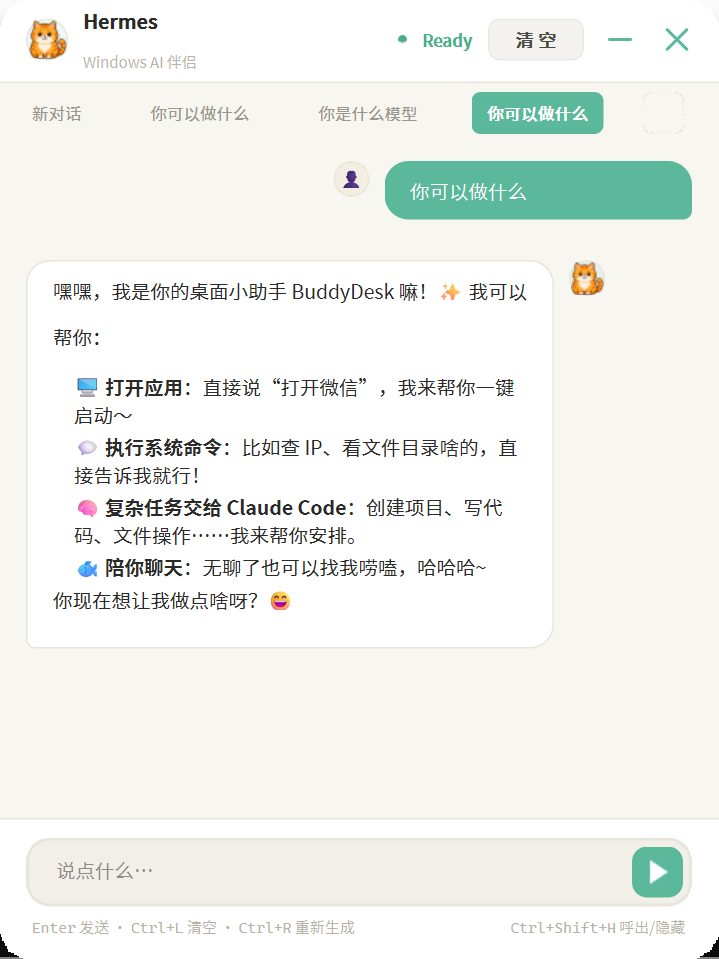
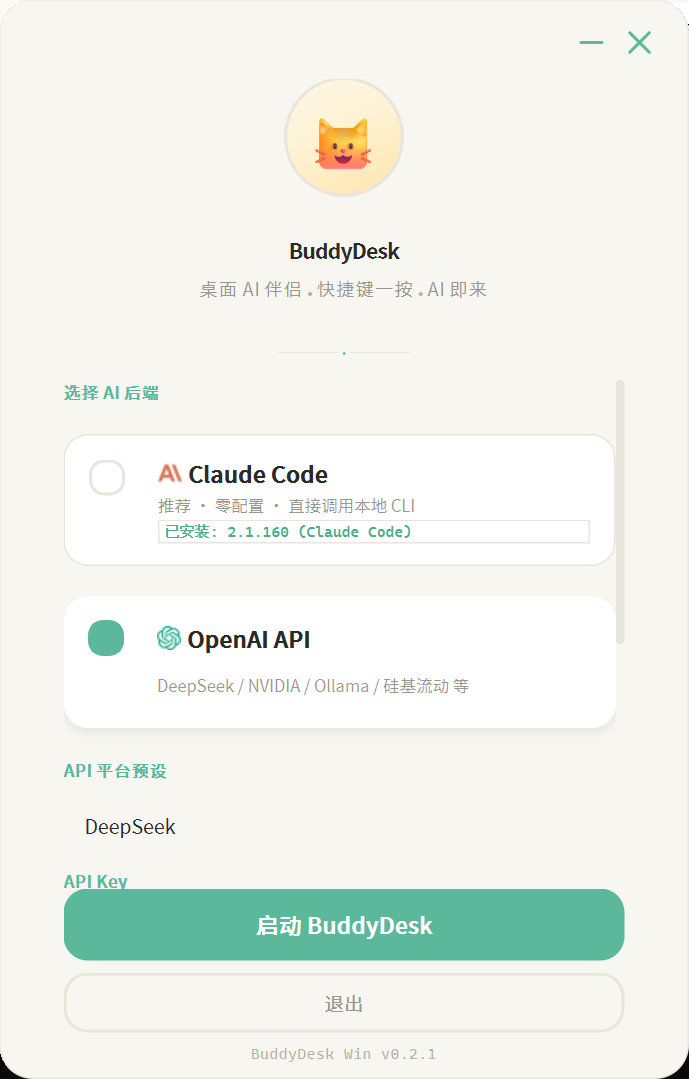
docs: fix all screenshots, restore original header + features, keep architecture

diff --git a/README.md b/README.md
@@ -110,8 +110,8 @@ DeepSeek / NVIDIA / 硅基流动 / Moonshot / Ollama 一键预设。填一个 AP
 <table>
 <tr>
 <td align="center"><strong>启动配置</strong><br><img src="docs/images/launcher.png" width="260"></td>
-<td align="center"><strong>灵动岛 · 思考中</strong><br><img src="docs/images/island_thinking.png" width="260"></td>
-<td align="center"><strong>聊天界面</strong><br><img src="docs/images/chat_full.png" width="260"></td>
+<td align="center"><strong>灵动岛 · 思考中</strong><br><img src="docs/images/island.png" width="260"></td>
+<td align="center"><strong>聊天界面</strong><br><img src="docs/images/chat.png" width="260"></td>
 </tr>
 </table>
 
